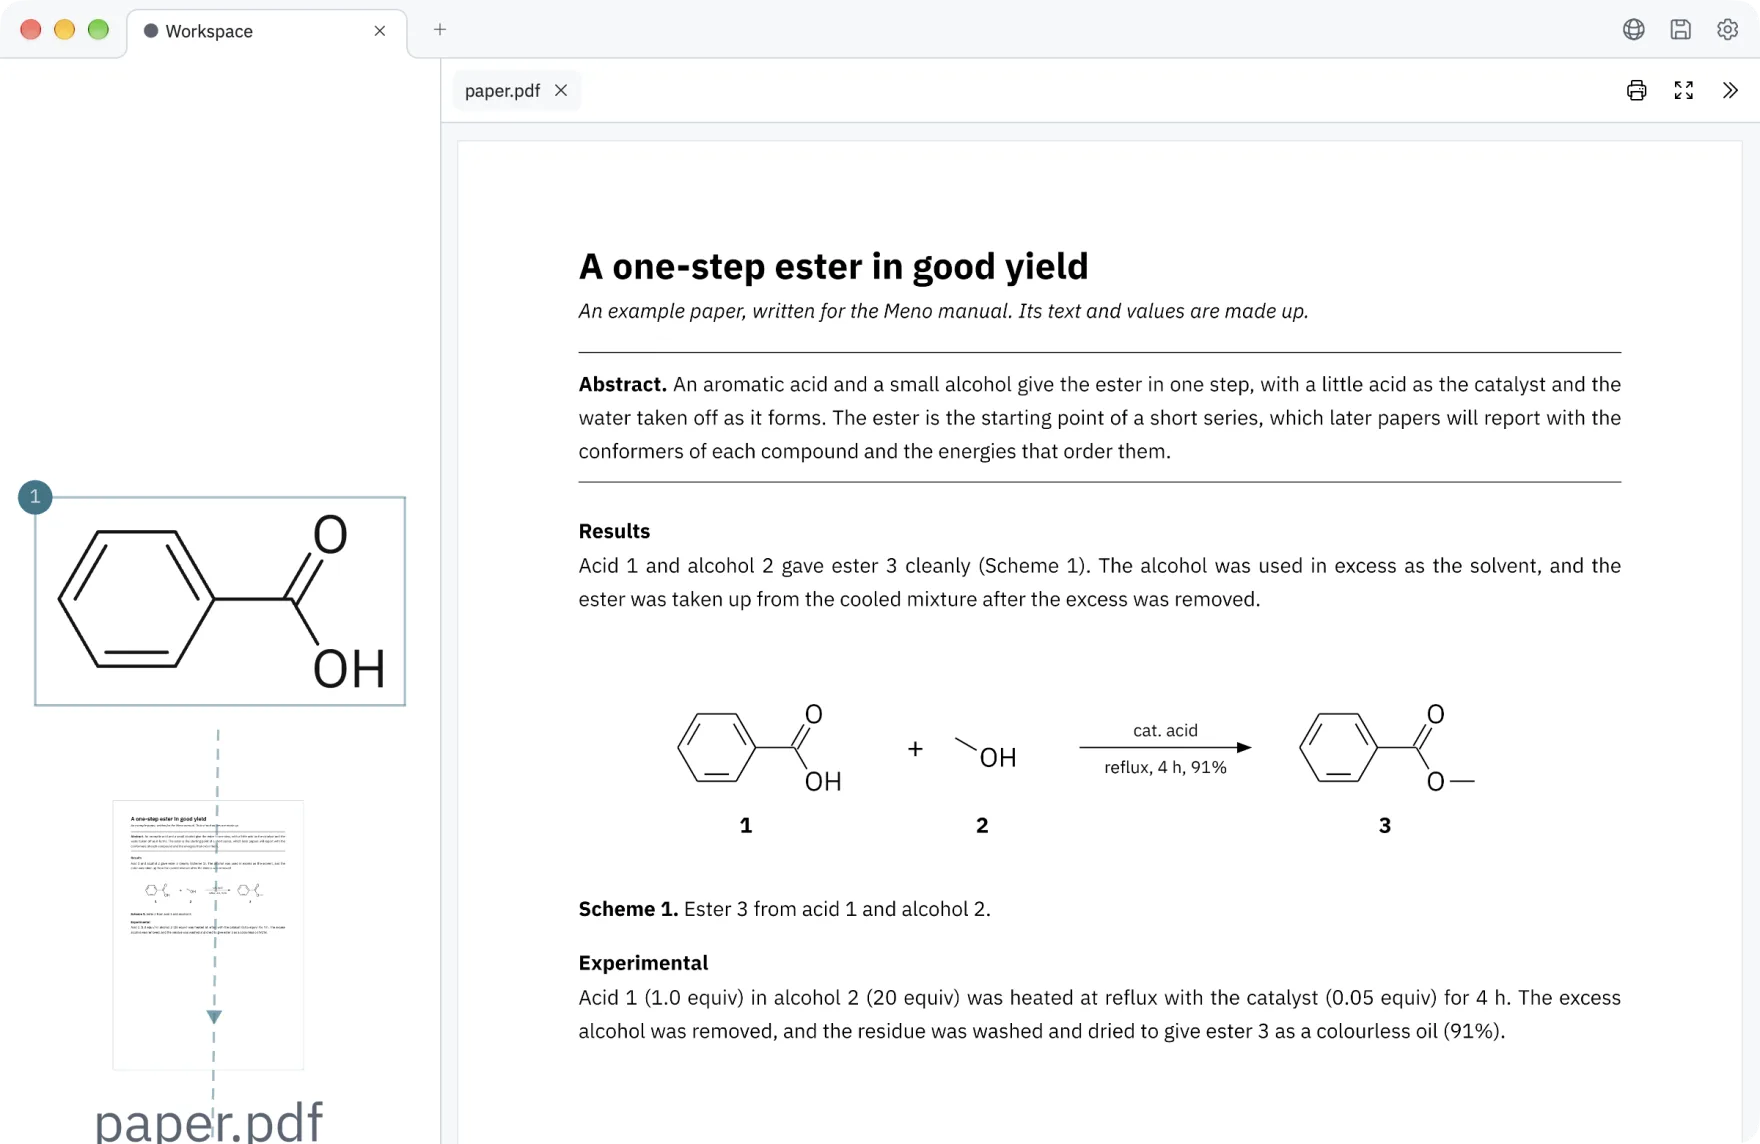
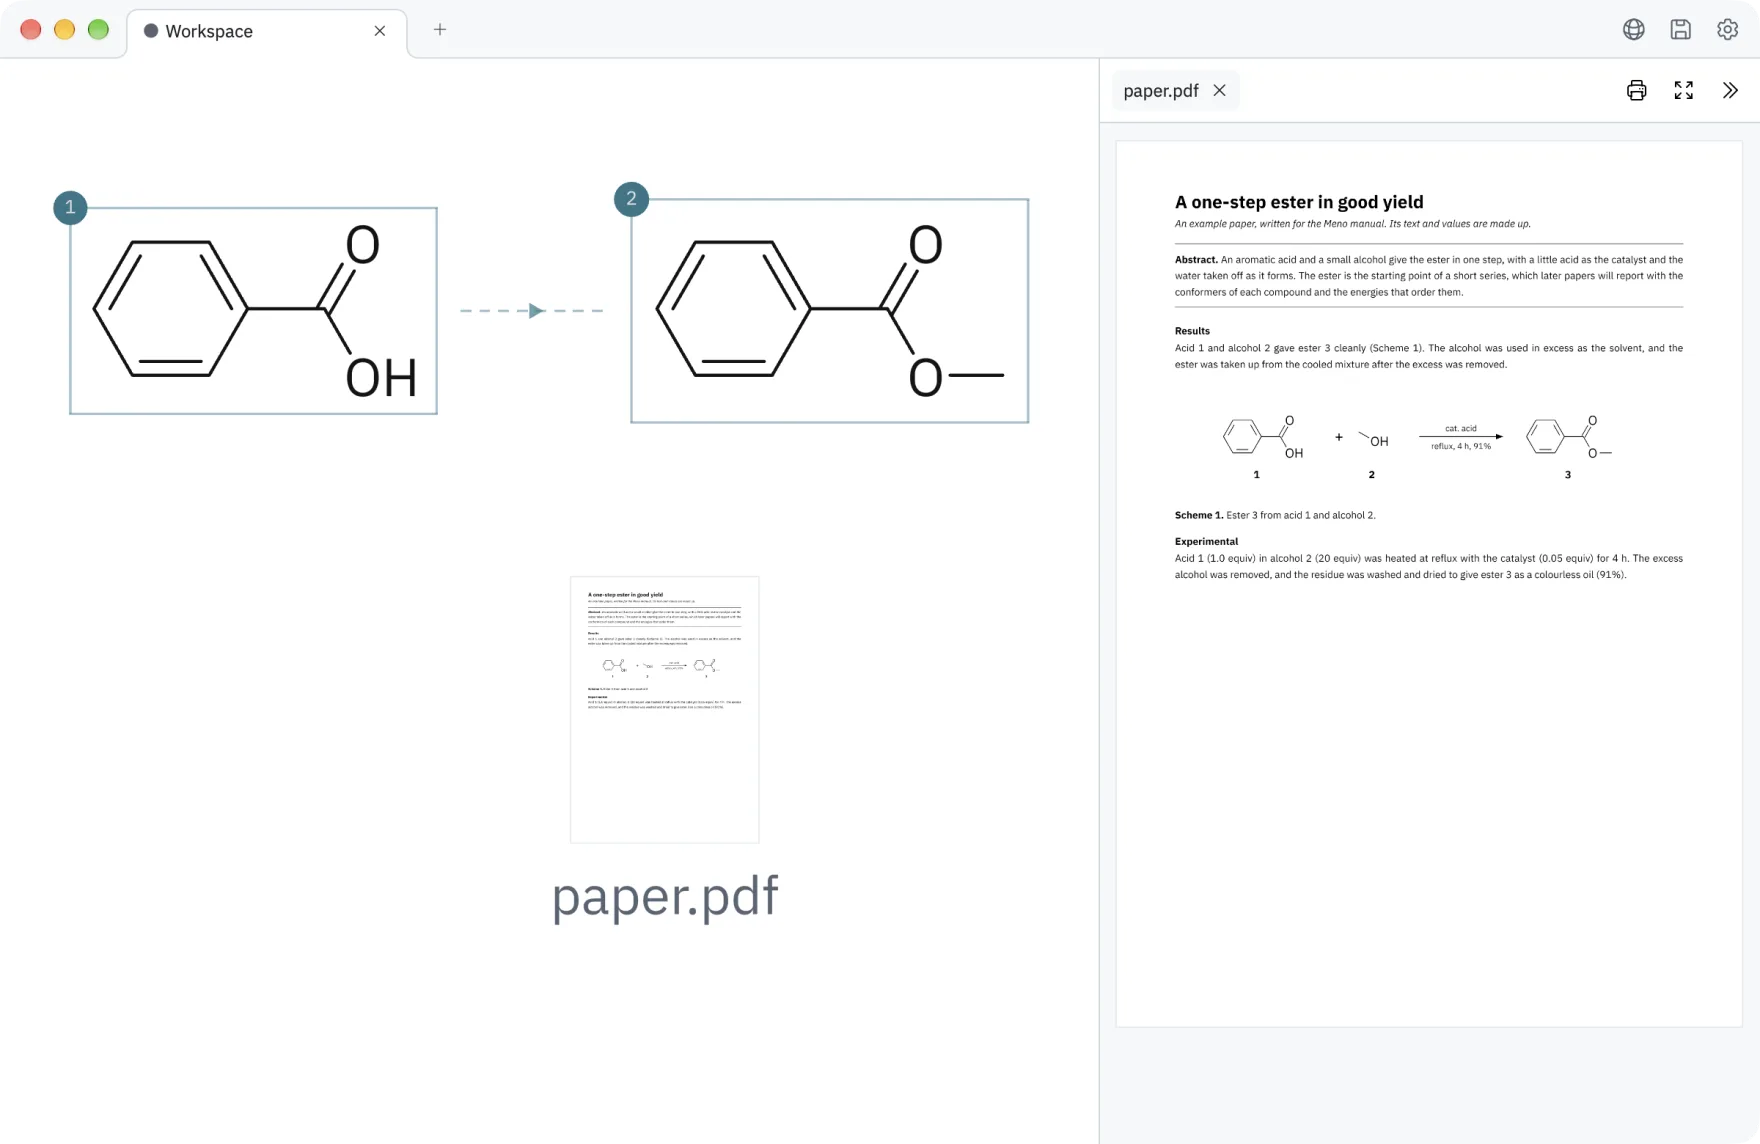
The paper-to-slides page shows the work whole, in a view that stays still
Recorded again: the column is narrowed first, so that the two structures
go down side by side high on the page and every menu opens with room,
and the view never moves under them. The page's own menu is opened with
nothing chosen, and the last step brings everything on the page into
view: both slides whole, with their numbers and the arrow between them.
The words say, where each first shows, that a structure taken out is put
down chosen with its PDF, that it says where it came from, and what a
slide's number and dashed arrow are. The first start's questions are
answered before the first step.

diff --git a/site/manual/how-to/paper-to-slides/ja.md b/site/manual/how-to/paper-to-slides/ja.md
@@ -1,16 +1,19 @@
 # 論文から構造を取り出してスライドにする
 
-論文を作業の横で読み、その構造を二つ、編集できる構造としてページに取り出します。それぞれをスライドにして、発表します。
+論文を作業の横で読み、その中の構造を二つ、編集できる構造としてページに取り出します。それぞれをスライドにして、発表します。
 
 1. {#open} ⌘O（Windows では Ctrl+O）を押し、開いたウィンドウで論文の PDF を選びます。PDF がページに置かれます。
 2. {#read} PDF をダブルクリックします。ページの右に列が開き、論文が表示されます。
-3. {#take-first} 列の中で構造にポインターを合わせると、構造が明るく示されます。そのままページへドラッグします。
-4. {#take-second} 次の構造も同じようにページへドラッグします。
-5. {#choose-first} 一つ目の構造を長押しして、構造全体を選びます。
-6. {#menu-first} その構造を右クリックします。
-7. {#slide-first} 「Slide around these」を選びます。構造を囲むスライドができます。
-8. {#choose-second} 二つ目の構造を長押しします。
-9. {#menu-second} その構造を右クリックします。
-10. {#slide-second} 「Slide around these」を選びます。
-11. {#present-menu} ページの何もないところを右クリックします。
-12. {#present} 「Present」を選びます。ウィンドウが画面いっぱいになり、一つ目のスライドが映ります。Escape を押すと発表が終わります。
+3. {#narrow} 列の左端を右へドラッグして、ページを広くします。
+4. {#take-first} 列の中で構造にポインターを合わせると、構造が明るく示されます。そのままページの左上へドラッグします。置かれた構造は、取り出し元の PDF と一緒に選ばれた状態になります。
+5. {#take-second} 次の構造を、一つ目の横へドラッグします。
+6. {#choose-first} 一つ目の構造を長押しして、その構造全体だけを選びます。ポインターを構造に置くと、どこから取り出したかが表示されます。
+7. {#menu-first} その構造を右クリックします。
+8. {#slide-first} 「Slide around these」を選びます。構造を囲むスライドができ、左上にその番号が付きます。
+9. {#choose-second} 二つ目の構造を長押しします。
+10. {#menu-second} その構造を右クリックします。
+11. {#slide-second} 「Slide around these」を選びます。一つ目のスライドから二つ目へ、破線の矢印が付きます。番号と矢印は発表では表示されません。
+12. {#clear} ページの何もないところをクリックして、何も選ばれていない状態にします。
+13. {#present-menu} 同じところを右クリックします。
+14. {#present} 「Present」を選びます。ウィンドウが画面いっぱいになり、一つ目のスライドが映ります。Escape を押すと発表が終わります。
+15. {#fit} ⌘1（Windows では Ctrl+1）を押すと、ページにあるものがすべて見える大きさになります。

diff --git a/site/manual/how-to/paper-to-slides/en.md b/site/manual/how-to/paper-to-slides/en.md
@@ -4,13 +4,16 @@ Read a paper beside your work, take two of its structures out onto the page as s
 
 1. {#open} Press ⌘O (Ctrl+O on Windows), and choose the paper's PDF in the window that opens. It is put on the page.
 2. {#read} Double-click the PDF. It opens in a column on the right of the page.
-3. {#take-first} In the column, point at a structure: it lights up. Drag it onto the page.
-4. {#take-second} Drag the next structure onto the page too.
-5. {#choose-first} Press and hold the first structure to choose the whole of it.
-6. {#menu-first} Right-click it.
-7. {#slide-first} Choose *Slide around these*. A slide is drawn round the structure.
-8. {#choose-second} Press and hold the second structure.
-9. {#menu-second} Right-click it.
-10. {#slide-second} Choose *Slide around these*.
-11. {#present-menu} Right-click empty space on the page.
-12. {#present} Choose *Present*. The window fills the screen with the first slide. Press Escape to end the talk.
+3. {#narrow} Drag the column's left edge to the right, to give the page more room.
+4. {#take-first} In the column, point at a structure: it lights up. Drag it onto the upper left of the page. It is put down chosen, together with the PDF it came from.
+5. {#take-second} Drag the next structure onto the page, beside the first.
+6. {#choose-first} Press and hold the first structure to choose the whole of it, alone. As the pointer rests on it, it says where it came from.
+7. {#menu-first} Right-click it.
+8. {#slide-first} Choose *Slide around these*. A slide is drawn round the structure, with its number at its upper left.
+9. {#choose-second} Press and hold the second structure.
+10. {#menu-second} Right-click it.
+11. {#slide-second} Choose *Slide around these*. A dashed arrow leads from the first slide on to the second. Neither the numbers nor the arrow show in the talk.
+12. {#clear} Click empty space on the page, so that nothing is chosen.
+13. {#present-menu} Right-click the same empty space.
+14. {#present} Choose *Present*. The window fills the screen with the first slide. Press Escape to end the talk.
+15. {#fit} Press ⌘1 (Ctrl+1 on Windows) to bring everything on the page into view.
